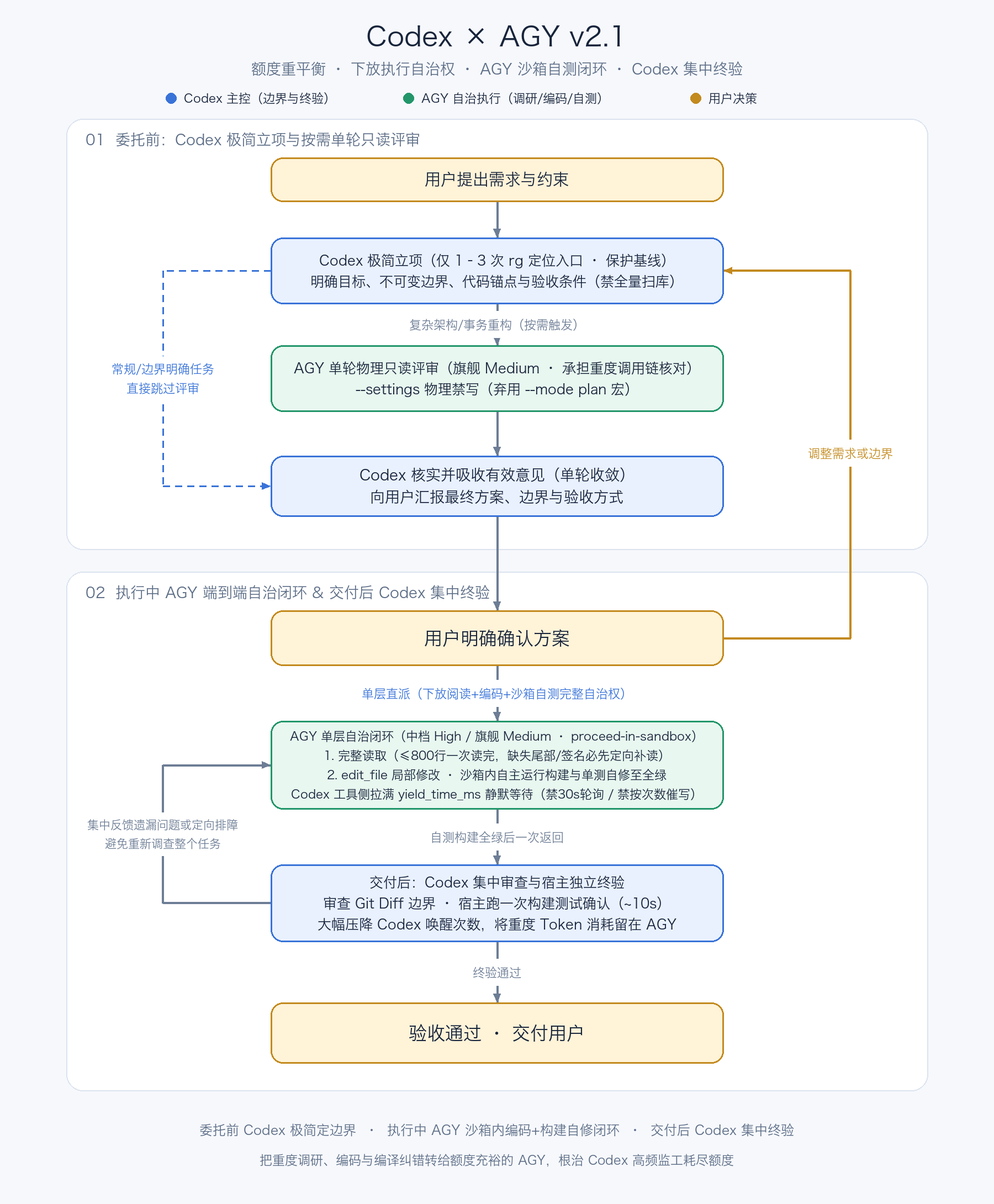
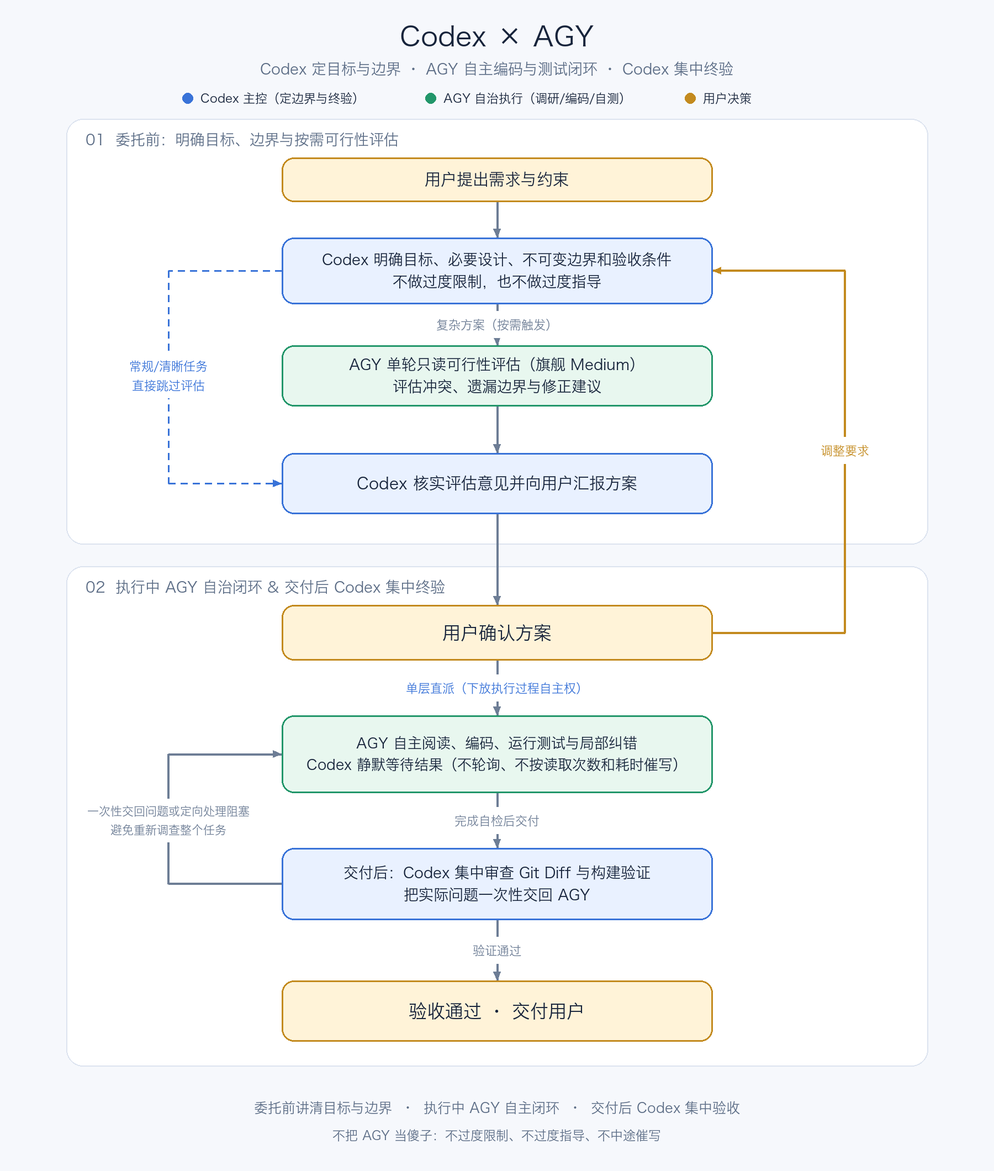
Simplify to v2.2.0: remove tool micromanagement and focus on goals and boundaries

diff --git a/codex-agy/SKILL.md b/codex-agy/SKILL.md
@@ -1,70 +1,70 @@
 ---
 name: codex-agy
-description: 通过 Antigravity CLI（agy）使用 AGY 作为 Codex 的实现 Subagent。以“节省 Codex 额度、下放执行自治权”为核心：委托前 Codex 定边界，执行中 AGY 自主完成阅读、局部编码与沙箱内构建自修复闭环，交付后 Codex 集中终验。
+description: 通过 Antigravity CLI（agy）使用 AGY 作为 Codex 的实现 Subagent。Codex 只讲清楚目标、边界和验收条件，由 AGY 自主完成阅读、编码与测试闭环，Codex 静默等待并集中终验。
 ---
 
-# 高效调用 AGY（额度重平衡与执行自治架构）
+# 调用 AGY
 
-## 核心目标：把重度消耗转给 AGY，把 Codex 调用压到最低
+## 核心原则
 
-协作的衡量标准是：**完成同等任务时，Codex 的总模型调用次数与 Token 消耗大幅下降，返工轮次最小化**。为此必须把“编码”和“执行过程的自主权（详查代码、编译自检、局部纠错）”一并交给额度充裕的 AGY，禁止 Codex 充当高频监工或人肉编译器。
+**不要把 AGY 当傻子，Codex 不要过度限制，也不要过度指导。**
+Codex 的职责是讲清楚**要实现什么目标、不能破坏什么边界、怎么算验收通过**，然后把执行过程的自主权真正交给 AGY：
+
+- **委托前**：Codex 明确目标、必要设计、不可变边界和验收条件。若工作区有未提交改动，先做好基线备份（避免回滚时误用 `git checkout HEAD` 清空未提交成果）。不要替 AGY 全量扫库，不要写多份冗长的委托文档，也不要在提示词里教 AGY 怎么调工具、一次读几行或用哪个编辑函数。
+- **执行中**：AGY 自主阅读、编码、运行测试和局部纠错；Codex 在工具侧持续等待结果（拉满 `yield_time_ms`），不频繁唤醒模型空轮询，不读取 AGY 内部状态库，不按读取次数和耗时催写。
+- **交付后**：Codex 集中审查 `git diff`、执行独立验证，把实际问题一次性交回 AGY。
+- **出现阻塞时**：针对具体阻塞点定向处理，避免重新调查整个任务。
 
 ---
 
-## 四个阶段的职责边界
+## 流程与命令
 
-### 1. 委托前：Codex 极简立项（不替 AGY 做全量代码阅读）
-- **控制 Codex 上下文体积**：Codex 仅用 1–3 次 `rg` 确认核心入口目录与关键契约文件，**禁止 Codex 自行读取几十个源码文件或跨多个仓库做地毯式调研**（每次把几万行代码塞进 Codex 上下文，后续每一轮调度都会成倍烧掉 Codex 额度）。
-- **脏工作区基线保护**：若 `git status --short` 显示工作区已有未提交的前序实现，先用 `git stash create` 或打包备份记录恢复基线，**严禁在回滚单轮改动时直接对脏工作区执行 `git checkout HEAD` / `git reset --hard`**。
-- **明确四要素即可派发**：
-  1. **业务目标与关键技术决策**（先向用户确认是否需要强协调语义，不自行过度设计）；
-  2. **不可变边界**（必须保留的表、接口、协议、事务/ACK 顺序）；
-  3. **代码锚点与局部修改要求**；
-  4. **验收命令与通过标准**（如本机 JDK8 离线 Maven 测试命令）。
+### 1. 可行性评估（仅复杂方案按需触发）
 
-### 2. 按需可行性评审：让 AGY 做重度只读调研（单轮收敛）
-- **常规/边界清晰任务**：直接跳过评审，向用户确认方案后进入第 3 步实施。
-- **复杂架构/事务重构任务**：把跨文件调用链核对与可行性评估交给旗舰模型 Medium 的 AGY 单轮完成。
-- **禁用 `--mode plan`（防 1,500 字 `<PLAN>` 宏污染）**：`agy` 二进制底层会将 `--mode plan` 自动展开为 `/plan` 宏（要求全库扫描并写 Artifact 文件）。只读评审一律使用 `--mode accept-edits --disable-slash-commands` 搭配 `--settings` 物理禁写：
-  ```bash
-  agy --project '<项目ID>' --model '<旗舰 Medium 模型 ID>' --mode accept-edits --disable-slash-commands \
-    --settings '{"allowNonWorkspaceAccess":false,"enableTerminalSandbox":true,"toolPermission":"request-review","permissions":{"allow":["read_file(/绝对路径/工作区根目录)"],"deny":["write_file(*)","command(*)","mcp(*)","read_url(*)"]}}' \
-    --output-format json \
-    -p '只读可行性评审（禁止写文件或执行命令）。请用 read_file（传绝对路径，≤800行一次读完）核对以下锚点文件及关联调用链，指出：1. 方案是否可行；2. 与现有接口签名/事务/协议的冲突或遗漏边界；3. 必须修正项。'
-  ```
-- Codex 吸收有效意见后直接向用户汇报定稿，**不与 AGY 进行多轮文字辩论**。
+常规任务或边界清晰的需求，Codex 与用户确认目标后直接进入实施。仅当涉及复杂架构、跨服务契约或事务/状态机改造时，请 AGY 做一次单轮只读评估：
 
-### 3. 执行中：AGY 端到端自治闭环，Codex 静默等待
-收到用户明确确认后，**由 Codex 直接派发单个 AGY 执行会话**（严禁在外部同时起“AGY 负责人 + AGY 执行者”两个 CLI 进程传话）。
+- 注意：`agy` 的 `--mode plan` 在底层会自动注入 `/plan` 宏（触发生成计划文档的长流程），因此只读评估统一使用 `--mode accept-edits --disable-slash-commands` 搭配 `--settings` 禁止写入和命令执行：
 
-#### （1）赋予 AGY 沙箱内“编码 + 本地构建自修复”完整自治权
-- 不要让 AGY 写完代码盲交回来等 Codex 编译报错。使用 `--sandbox` 搭配会话设置 `"enableTerminalSandbox": true, "toolPermission": "proceed-in-sandbox"`，允许 AGY 在沙箱内自主运行本地构建与单测，**自己看报错、自己修到编译与单测全绿后再退出返回**。
-- **不要规定构建日志落盘路径**：Codex 不要要求 AGY 把构建日志重定向到 `/private/tmp` 等指定文件，交给 AGY 原生 `run_command` 自行处理即可。
+```bash
+agy --project '<项目ID>' --model '<旗舰 Medium 模型 ID>' --mode accept-edits --disable-slash-commands \
+  --settings '{"allowNonWorkspaceAccess":false,"enableTerminalSandbox":true,"toolPermission":"request-review","permissions":{"allow":["read_file(/绝对路径/工作区根目录)"],"deny":["write_file(*)","command(*)","mcp(*)","read_url(*)"]}}' \
+  --output-format json \
+  -p '评估以下方案的可行性，对照现有代码指出潜在冲突、遗漏边界和修正建议。'
+```
+
+Codex 核实评估意见后向用户汇报方案，确认后进入实施，不进行多轮文字辩论。
+
+### 2. 派发实施（单层直派，赋予完整自治权）
+
+收到用户确认后，直接派发单个 AGY 会话（无需额外套一层“AGY 负责人”进程传话）。给予整个工作区的读写权限与沙箱内命令执行权限（`proceed-in-sandbox`），不要做碎片化的单文件白名单限制，也不要硬性指定构建日志落盘路径：
 
 ```bash
 agy --project '<项目ID>' --model '<中档 High 模型 ID>' --mode accept-edits --disable-slash-commands --sandbox \
   --settings '{"allowNonWorkspaceAccess":false,"enableTerminalSandbox":true,"toolPermission":"proceed-in-sandbox","permissions":{"allow":["read_file(/绝对路径/工作区根目录)","write_file(/绝对路径/工作区根目录)","command(env)","command(mvn)","command(git status)","command(git diff)"],"deny":["unsandboxed(*)","command(git checkout)","command(git reset)","command(git clean)","command(git commit)","command(git push)","mcp(*)","read_url(*)"]}}' \
   --output-format json \
-  -p '按以下已确认边界完成编码、单测与本地构建自检闭环：
-1. 完整读取：调用文件工具必须传绝对路径；800行以内的文件一次 read_file 读完；未读到的本类尾部私有方法或关联 Mapper/DTO 签名必须先定向补读核实。
-2. 局部修改：对已有复杂业务类必须使用 edit_file 局部修改，严禁在缺失原文时调用 write_file(Overwrite=true) 全文重新生成或臆造不存在的方法。
-3. 自主构建修复：修改后在沙箱内自主运行构建与测试，若有编译或测试错误请自行定位修复，直到测试通过后再集中返回改动摘要与测试结果。'
+  -p '目标：<讲清楚要实现的业务目标与关键技术决策>
+不可变边界：<必须保留的既有行为、接口与协议>
+验收条件：<构建或测试通过标准>
+请自主完成代码修改、测试编写与本地构建自检，修复发现的问题后返回改动摘要。'
 ```
 
-#### （2）Codex 执行中“三不准”与长等待纪律
-- **工具侧持续等待，减少无信息唤醒**：Codex 调用 `exec_command` / `write_stdin` 等待 `agy -p` 时，必须将 `yield_time_ms` 设为工具支持的最大上限；`agy` 侧不设短 `--print-timeout` 截断任务。
-- **等待期间零折腾**：若单次等待到期进程仍在运行，仅继续純等待；**严禁每隔 1–30 秒唤醒模型轮询，严禁在等待期间夹带 `git diff`、`stat` 或编写脚本解析 `~/.gemini/antigravity-cli/` 内部 `.pb` / `transcript.jsonl` 记录**。
-- **不准凭读取次数或耗时催写**：严禁主观宣布“你已读取 N 次源码、上下文已具备，禁止继续读取、立即写入”，不得把 AGY 对缺失原文或关联签名的必要补读当成无效工作。
+（若目标项目使用 Gradle、pytest、npm 等其他构建工具，将 `command(mvn)` 替换为对应工具命令即可。）
 
-### 4. 交付后与阻塞处理：Codex 集中终验、定向排障
-- **交付后一次性终验**：AGY 完成自检返回后，Codex 审查 `git diff` 并独立运行一次宿主构建测试确认结果。若有遗漏问题，**一次性集中列出所有问题、文件行号与真实签名**，用 `--conversation '<会话 ID>'` 交回修复。
-- **出现阻塞时定向处理**：
-  - 若因权限拒绝（`denied_actions`）中断，只针对被拒的具体路径/命令修正 `--settings`（例如确实需要读 `/private/tmp` 下某文件时，必须同步开启 `"allowNonWorkspaceAccess": true` 并授权该路径），然后续接原会话，**严禁推翻重查整个任务**。
-  - 若会话已发生 `CHECKPOINT` 自动压缩（~256K tokens）且出现接口遗忘，则从当前已核实的 Git 状态开启新会话，仅传入剩余待修文件与具体问题。
+### 3. 续接与集中返工
+
+交付后 Codex 集中审查 `git diff` 并做验证。若存在遗漏问题，一次性汇总交给原会话修复：
+
+```bash
+agy --conversation '<conversation_id>' --model '<中档 High 模型 ID>' --mode accept-edits --disable-slash-commands --sandbox \
+  --settings '<同上会话权限 JSON>' --output-format json \
+  -p '验证发现以下问题，请一并修复并重新自检通过：<问题列表>'
+```
+
+若会话历经多轮后触发上下文自动压缩（~256K tokens）且出现细节遗忘，基于当前 Git 状态开启新会话处理剩余问题。
 
 ---
 
-## 项目归属与模型额度（仅首次核对）
+## 项目与模型选型
 
-1. **同名项目精确匹配**：首次委托时从 `~/.gemini/config/projects/*.json` 选出名称匹配且 `projectResources.resources[]` 仅绑定当前目标仓库的精确 `id`，后续复用 `--project '<项目 ID>'`。
-2. **额度与模型**：仅在对话首次使用 AGY 或遇 429 报错时查一次 `agy models` 与 `agy -p '/usage'`。只读评审用旗舰模型 Medium（如 `gemini-4-argon-medium`），实施与自测用中档模型 High（如 `gemini-3.8-flash-high`）或旗舰 Medium。
+1. **项目归属**：在目标仓库根目录启动 `agy`。首次调用时从 `~/.gemini/config/projects/*.json` 选取绑定当前仓库的同名项目 `id`，后续复用 `--project '<项目ID>'`。
+2. **模型与额度**：仅在当前对话首次使用 AGY 或遇到配额报错时查一次 `agy models` 与 `agy -p '/usage'`。复杂方案评估优先选有额度的旗舰模型 Medium（如 `gemini-4-argon-medium`）；实施与修复优先选中档模型 High（如 `gemini-3.8-flash-high`）或旗舰 Medium。

diff --git a/CHANGELOG.md b/CHANGELOG.md
@@ -1,44 +1,28 @@
 # Changelog
 
-## [2.1.0] - 2026-11-10 — 额度重平衡与执行自治架构（解决“Codex 额度耗尽 100%、Gemini 仅耗 6%”的本末倒置）
+## [2.2.0] - 2026-11-10 — 彻底去微观管理化（不把 AGY 当傻子：只定目标与边界，不做过度限制与过度指导）
 
-### 一、直击核心矛盾：为什么把编码交出去，Codex 额度反而比自己干还快耗尽？
+在完成底层证据链复盘后，进一步砍掉 Skill 中残留的“教 AGY 怎么调工具、一次读几行、必须用哪个函数、日志写到哪里”等微观管理规则，回归最纯粹的自治协作：
 
-复盘整个任务的终极失败指标：**用户引入 AGY（Gemini）是为了分担工作、节省主控 Codex 的宝贵额度；结果任务结束时 Codex 额度被彻底烧光，而 Gemini 额度仅消耗了 6%。**
-
-根本原因在于**“只把敲代码交了出去，却没有把执行过程的自主权交出去”**：
-1. **委托前 Codex 自己干了重体力调研**：Codex 自己在仓库里执行了 76 次搜索/文件读取、跨 3 个微服务比对实现、撰写 5 份长篇设计/委托文档，在还没调 AGY 前就把自己的上下文撑到了 30 万～42 万 tokens。
-2. **执行中 Codex 高频监工**：每隔 1～30 秒唤醒自己 40 万 token 的上下文去轮询、看 `git diff`、解析 AGY 内部数据库、按读取次数发催写指令。
-3. **打断 AGY 的沙箱自测闭环，把 Codex 变成“人肉编译器”**：
-   - 核查 `31cd7989` 原始记录（第 212、276、280、371–529 步）发现：**AGY 在 `--sandbox`（`proceed-in-sandbox`）下原本完全可以自己运行 JDK8 Maven 编译与单测（13 次成功，每次仅 6 秒）**！
-   - 唯一一次失败（第 276/280 步）是因为 Codex 要求把日志重定向到 `/private/tmp/ph-four-implementation-build.log`，在 macOS Seatbelt 沙箱下覆盖已有 `/private/tmp` 文件触发 `zsh:1: operation not permitted`，导致 AGY 误以为沙箱拦截了 Maven 而尝试 `BypassSandbox=true` 被拒。
-   - 如果不让 AGY 在自己回合内完成“编码 $\rightarrow$ 本地编译测试 $\rightarrow$ 自修报错”闭环，而是每次小错都退回给 Codex 编译再续接，Codex 就会在多轮往返中被迅速吸干额度。
+1. **只讲目标与边界，不教 AGY 怎么干活**：
+   - 移除提示词中对 AGY 工具用法的琐碎说教（如“≤800行一次读完”、“必须传绝对路径”、“核实真实签名”、“日志写到 `target/`”等）。只要给足工作区读写与沙箱构建权限（`proceed-in-sandbox`）且中途不瞎催，AGY 自己会读取所需上下文并通过编译器和单测闭环纠错。
+2. **四阶段极简契约**：
+   - **委托前**：Codex 明确目标、必要设计、不可变边界和验收条件（若有未提交改动先做好基线保护）。
+   - **执行中**：AGY 自主阅读、编码、测试和局部纠错；Codex 在工具侧拉满 `yield_time_ms` 静默等待结果，不按读取次数和耗时催写，不轮询内部记录。
+   - **交付后**：Codex 集中审查 `git diff` 与构建结果，把实际问题一次性交回 AGY。
+   - **出现阻塞时**：针对具体阻塞处理，避免重新调查整个任务。
 
 ---
 
-### 二、v2.1.0 核心重构：四个阶段的彻底减负与自治下放
+## [2.1.0] - 2026-11-10 — 额度重平衡与执行自治架构（解决“Codex 额度耗尽 100%、Gemini 仅耗 6%”）
 
-1. **委托前（Codex 极简立项，重度调研下放 AGY）**
-   - Codex 只用 1–3 次 `rg` 定位入口并保护未提交基线，明确**目标、必要设计、不可变边界与验收条件**；绝不自行全量扫库把几万行源码塞进主控上下文。
-2. **执行中（AGY 沙箱内“读取 + 编码 + 构建自修复”全闭环自治）**
-   - 赋予 AGY `--sandbox` + `toolPermission: "proceed-in-sandbox"` 权限，允许其在工作区内自由读写源码并自主运行本地构建/测试命令。
-   - **不预设日志落盘枷锁**：Codex 不再强制要求 AGY 将构建日志重定向到 `/private/tmp` 等外部路径，交由 AGY 原生命令工具自行处理，在单回合内自主把代码和单测修到全绿再返回。
-   - **Codex 静默长等待与“三不准”**：工具侧拉满 `yield_time_ms` 持续等待，不轮询、不扒内部状态库、不凭读取次数或耗时催写、不禁止缺失原文（如 `PublicHealthIngestService` 451–580 行）的必要定向补读。
-3. **交付后（Codex 一次性集中终验）**
-   - AGY 交付全绿结果后，Codex 集中审查 `git diff` 并做一次宿主构建终验；若有遗漏问题一次性打包交回。
-4. **出现阻塞时（定向排障，不重查全局）**
-   - 仅针对具体阻塞点（如补齐某个路径权限或澄清业务边界）定点恢复，绝不推翻重来。
+- **根因总结**：此前把编码交给了 AGY，却没有把执行过程的自主权交出去。Codex 在委托前自己做了 76 次全量代码搜索读取，在执行中用 30 秒间隔空轮询 49 次（累计携带 8,441 万输入 tokens）、通过负责人双进程传话催写、用单文件白名单和 `/private/tmp` 日志重定向制造沙箱冲突，导致省下的编码消耗被监工和返工消耗成倍抵消。
+- **核心改进**：砍掉外部“AGY 负责人”传话层，放开工作区完整权限与沙箱内构建自检权限，让 AGY 端到端修到构建全绿再返回。
 
 ---
 
-## [2.0.2] - 2026-11-10 — 双 Agent 交叉审计共识（确立完整因果链与双向边界）
+## [2.0.1 / 2.0.2] - 2026-11-10 — 交叉审计底层机制取证
 
-- **校准 `PublicHealthIngestService` 11 处编译错误的完整因果链**：`15:02` AGY 分三次仅读 `1–450/580` 行 $\rightarrow$ `15:09–15:15` Codex 凭“已读 46 次”误判读完并借负责人与 Prompt 双重催写禁读 $\rightarrow$ `15:17` AGY 未补读 `451–580` 行便违反局部修改要求用 `write_file(Overwrite=true)` 全文生成 $\rightarrow$ `15:24` AGY 解压基线试图补读 `420–580` 行又被 `/private/tmp` 权限拒绝 $\rightarrow$ `15:36` 触发 256K 自动压缩。
-- **校准缓存成本**：按 GPT-6.1 Sol 官方 Standard credits（缓存输入单价为普通输入的 5%），全天 8,364 万缓存输入对应的 credits 仍达 77.5 万未缓存输入的 **5.4 倍**。
-
----
-
-## [2.0.1] - 2026-11-10 — 封堵 `--mode plan` 底层宏注入与脏工作区误回滚
-
-- **弃用 `--mode plan`**：反编译 `/Users/du/.local/bin/agy` 证实 `--mode plan` 底层自动注入 `/plan` 宏；只读评审改用 `--mode accept-edits --disable-slash-commands` 搭配 `--settings` 物理禁写（`deny: ["write_file(*)","command(*)"]`）。
-- **脏工作区基线保护**：开工前若有未提交改动，必须先建快照或 `git stash create`，严禁在回滚单轮改动时直接恢复 `git HEAD`。
+- **`PublicHealthIngestService` 11 处编译错误的真实因果链**：`15:02` AGY 分段读取了 `1–450/580` 行 $\rightarrow$ `15:09–15:15` Codex 仅凭“已读 46 次”误判读完并下令停止全量阅读、立即写入 $\rightarrow$ `15:17` AGY 在缺失 `451–580` 行原文时整体重写该类 $\rightarrow$ `15:24` AGY 解压基线试图补读 `420–580` 行被 `/private/tmp` 权限拒绝 $\rightarrow$ `15:36` 触发 256K 自动压缩。
+- **弃用 `--mode plan`**：反编译 `/Users/du/.local/bin/agy` 证实 `--mode plan` 底层自动注入 `/plan` 宏；只读评估改用 `--mode accept-edits --disable-slash-commands` 搭配 `--settings` 物理禁写。
+- **脏工作区基线保护**：防止在存在未提交改动时误用 `git checkout HEAD` 清空前序实现。

diff --git a/README.md b/README.md
@@ -1,6 +1,6 @@
 # Codex AGY
 
-用额度充裕的 AGY（Gemini）分担重度代码调研、编码与本地构建自修复闭环，将主控 Codex 的额度集中在高价值的边界设定、技术决策与最终独立验收上。
+用额度充裕的 AGY（Gemini）分担代码调研、实现与自测闭环，节省主控 Codex 的额度。
 
 将 [AGENTS.md](AGENTS.md) 中的分工合并到目标项目的 `AGENTS.md`。确认 `agy` 已安装并登录，然后在本仓库根目录安装 Skill：
 
@@ -10,18 +10,18 @@ cp codex-agy/SKILL.md ~/.codex/skills/codex-agy/SKILL.md
 ```
 
 在目标项目的 Codex 对话中按需调用 `$codex-agy`。
-- [SKILL.md](codex-agy/SKILL.md)：额度重平衡与执行自治规范（委托前极简立项、执行中 AGY 沙箱内编码+构建自测闭环、Codex 静默长等待与三不准纪律、交付后集中终验）。
-- [CHANGELOG.md](CHANGELOG.md)：v2.1.0 额度重平衡复盘与全链路证据取证。
+- [SKILL.md](codex-agy/SKILL.md)：调用规范与权限模板。
+- [CHANGELOG.md](CHANGELOG.md)：问题排查复盘与版本演进记录。
 
-## 架构与执行流程（v2.1 额度重平衡与执行自治）
+## 架构与执行流程
 
 ![Codex 与 AGY 架构及执行流程](assets/architecture.png)
 
 [查看完整尺寸 PNG](assets/architecture.png)
 
-### 四阶段协作原则
+### 协作四原则
 
-1. **委托前（Codex 极简立项）**：Codex 保护未提交基线，仅用 1–3 次 `rg` 定位入口，明确**目标、必要设计、不可变边界和验收条件**，不自行全量扫库撑爆主控上下文；若需跨多文件可行性核对，交由 AGY 单轮物理只读评审完成。
-2. **执行中（AGY 自主闭环，Codex 静默等待）**：单层直派单个 AGY 会话（`--sandbox` + `proceed-in-sandbox`），由 AGY 自主完成**完整读取（≤800行一次读完，缺失必补读）、`edit_file` 局部修改、沙箱内运行本地构建/测试并自修到全绿**。期间 Codex 工具侧持续长等待，不按读取次数和耗时催写。
-3. **交付后（Codex 集中终验）**：Codex 对 AGY 自测通过的代码集中审查 `git diff` 并做宿主独立验证，把实际遗漏问题一次性交回修复。
-4. **出现阻塞时（定向排障）**：仅针对具体阻塞（如补齐某项路径权限或澄清边界）处理，避免重新调查整个任务。
+1. **委托前**：Codex 讲清楚**业务目标、必要设计、不可变边界和验收条件**，不对 AGY 做过度限制或手把手指导。复杂方案可按需请 AGY 做单轮只读评估。
+2. **执行中**：单层直派 AGY 会话，由 AGY 自主完成阅读、编码、运行测试与局部纠错；Codex 等待结果，不按读取次数和耗时催写。
+3. **交付后**：Codex 集中审查 `git diff`、执行独立验证，把实际问题一次性交回 AGY。
+4. **出现阻塞时**：针对具体阻塞处理，避免重新调查整个任务。

diff --git a/AGENTS.md b/AGENTS.md
@@ -1,8 +1,10 @@
-# Codex 与 AGY 的分工（额度重平衡与执行自治架构）
+# Codex 与 AGY 的分工
 
-用户决定业务目标、约束和最终验收。协作的核心目标是**用额度充裕的 AGY（Gemini）分担重度代码阅读、实现与自测闭环，将主控 Codex 的额度集中在高价值的架构决策、边界把控与最终独立验收上**。
+用户决定业务目标、约束和最终验收。协作的核心是用额度充裕的 AGY（Gemini）分担代码调研、实现与自测闭环，节省 Codex 额度。
 
-- **委托前（Codex 极简立项，重度调研交由 AGY）**：Codex 仅做最小必要的入口定位与基线保护，明确**业务目标、不可变边界、关键技术决策与验收条件**。若需跨多文件详查调用链与评估可行性，委托 AGY 单轮只读完成，避免 Codex 自行全量扫库撑爆上下文。
-- **执行中（AGY 端到端自治闭环，Codex 静默等待）**：默认由 **Codex 直派单个 AGY 会话**（不套外部“负责人”传话层）。AGY 在授权沙箱（`proceed-in-sandbox`）内**自主完成完整读取、局部编码、运行本地构建/单测与编译错误自修复**，直到构建全绿再返回。执行期间 Codex 在工具侧长等待，不按读取次数或耗时轮询催写。
-- **交付后（Codex 一次集中终验）**：AGY 交回已自测通过的改动后，Codex 集中审查 `git diff` 并独立跑一次宿主验证；若有遗漏问题一次性打包交回 AGY 修复。
-- **遇到阻塞时**：仅针对具体阻塞点（如缺失某项配置或需调整业务边界）定向处理，严禁推翻重查整个任务。调用细则见 `$codex-agy` Skill。
+- **委托前**：Codex 明确业务目标、必要设计、不可变边界和验收条件。不对 AGY 做过度指导或细碎限制，只需讲清楚要实现什么目标与不能破坏的边界。复杂方案可先请 AGY 做单轮只读可行性评估。
+- **执行中**：直接委托单个 AGY 会话。AGY 自主阅读、编码、运行测试并完成局部纠错；Codex 等待结果，不轮询、不按读取次数或耗时催写。
+- **交付后**：Codex 集中审查 `git diff` 并做构建验证，把实际问题一次性交回 AGY。
+- **出现阻塞时**：针对具体阻塞处理，避免重新调查整个任务。
+
+调用方式见 `$codex-agy` Skill。
